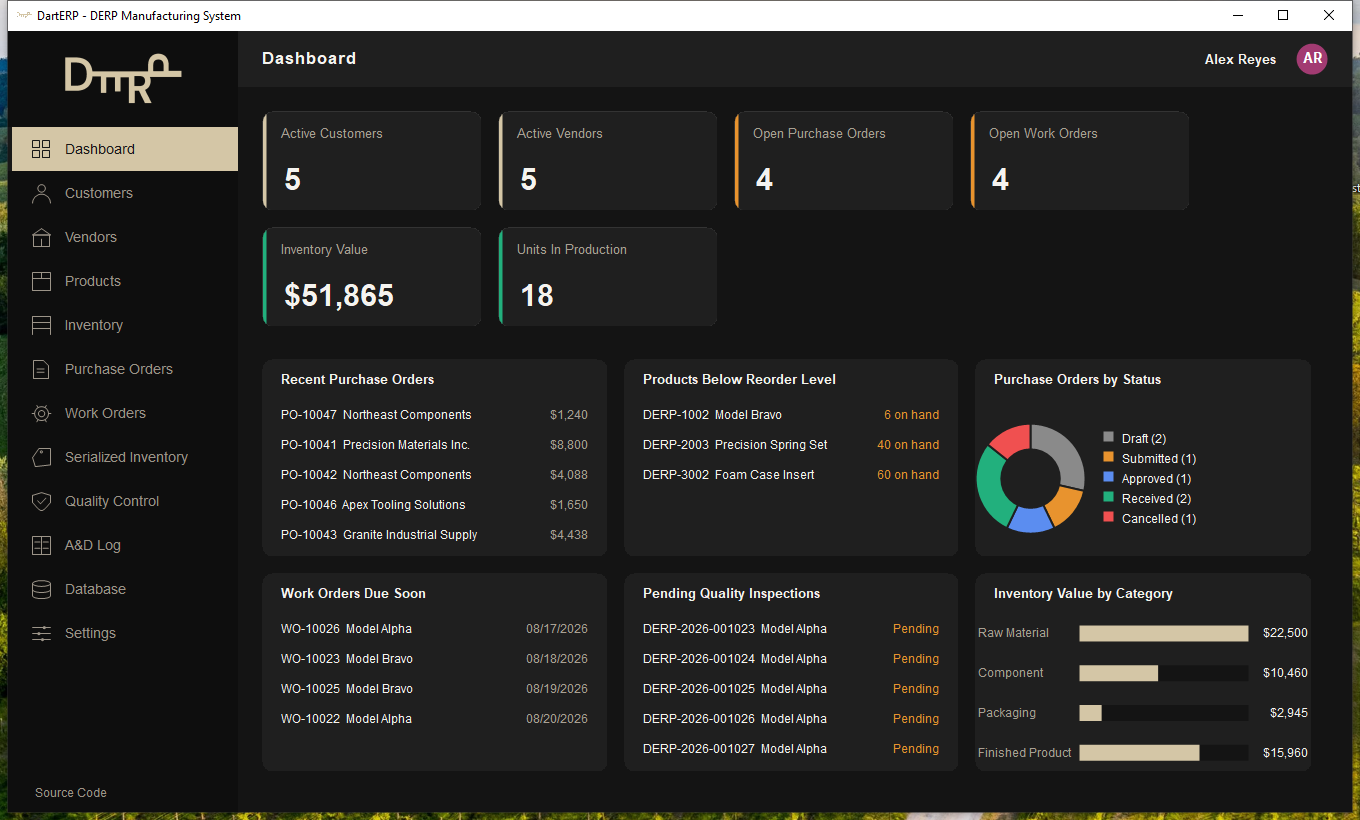
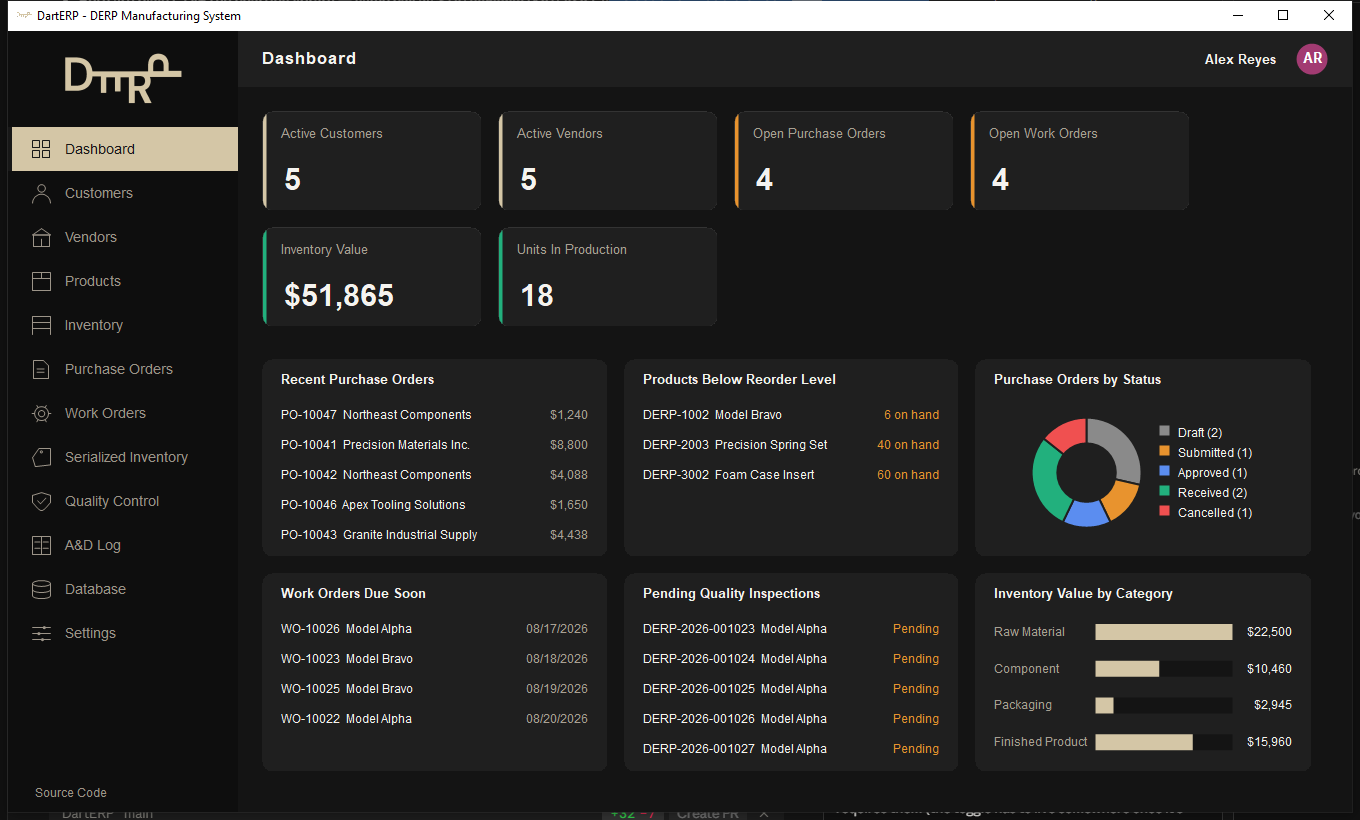
Fix chart padding: Panel.Padding doesn't apply to manual Paint drawing
Same class of bug as the LetterSpacedLabel padding fix — DashboardCard's
Body panel has Padding(16,0,16,12), but that only affects docked child
controls, not a Paint handler drawing straight onto the Graphics surface.
PieChart and BarChart were both positioning content from raw (0,0) against
Body.Width/Height, so the donut chart sat flush against the left edge and
the bar chart's category labels had no left margin at all.

Both now compute an inset bounds rectangle from Body.Padding and draw
everything relative to that. PieChart also centers the donut+legend as one
block (measuring the legend text width first) instead of just left-aligning
the donut, which was leaving a lopsided gap of empty space on the right.

diff --git a/src/DartERP.WinForms/Controls/BarChart.cs b/src/DartERP.WinForms/Controls/BarChart.cs
@@ -34,9 +34,20 @@ public class BarChart : DashboardCard
         var g = e.Graphics;
         g.SmoothingMode = SmoothingMode.AntiAlias;
 
+        // Body.Padding only affects docked child controls, not manual
+        // drawing in a Paint handler — same gotcha as LetterSpacedLabel.
+        // Everything below is positioned relative to this inset rectangle
+        // instead of raw Body.Width/Height, so labels get the same 16px
+        // margin every other dashboard card has instead of sitting flush
+        // against the edge.
+        var bounds = new Rectangle(
+            Body.Padding.Left, Body.Padding.Top,
+            Math.Max(0, Body.Width - Body.Padding.Horizontal),
+            Math.Max(0, Body.Height - Body.Padding.Vertical));
+
         if (_bars.Count == 0 || _bars.All(b => b.Value == 0))
         {
-            TextRenderer.DrawText(g, "No data yet.", Theme.FontSmall, Body.ClientRectangle, Theme.TextSecondary,
+            TextRenderer.DrawText(g, "No data yet.", Theme.FontSmall, bounds, Theme.TextSecondary,
                 TextFormatFlags.HorizontalCenter | TextFormatFlags.VerticalCenter);
             return;
         }
@@ -44,30 +55,31 @@ public class BarChart : DashboardCard
         const float labelWidth = 104f;
         const float valueWidth = 64f;
         var maxValue = _bars.Max(b => b.Value);
-        var rowHeight = (float)Body.Height / _bars.Count;
+        var rowHeight = (float)bounds.Height / _bars.Count;
         var barHeight = Math.Min(16f, rowHeight * 0.5f);
-        var barAreaWidth = Math.Max(0, Body.Width - labelWidth - valueWidth);
+        var barAreaWidth = Math.Max(0, bounds.Width - labelWidth - valueWidth);
+        var barAreaLeft = bounds.Left + labelWidth;
 
         for (var i = 0; i < _bars.Count; i++)
         {
             var bar = _bars[i];
-            var rowCenterY = rowHeight * i + rowHeight / 2f;
+            var rowCenterY = bounds.Top + rowHeight * i + rowHeight / 2f;
 
-            var labelRect = new Rectangle(0, (int)(rowCenterY - 8), (int)labelWidth, 16);
+            var labelRect = new Rectangle(bounds.Left, (int)(rowCenterY - 8), (int)labelWidth, 16);
             TextRenderer.DrawText(g, bar.Label, Theme.FontSmall, labelRect, Theme.TextSecondary,
                 TextFormatFlags.NoPrefix | TextFormatFlags.Left | TextFormatFlags.VerticalCenter | TextFormatFlags.EndEllipsis);
 
             using (var trackBrush = new SolidBrush(Theme.AppBackground))
-                g.FillRectangle(trackBrush, labelWidth, rowCenterY - barHeight / 2, barAreaWidth, barHeight);
+                g.FillRectangle(trackBrush, barAreaLeft, rowCenterY - barHeight / 2, barAreaWidth, barHeight);
 
             var barWidth = maxValue == 0 ? 0 : (float)(bar.Value / maxValue) * barAreaWidth;
             if (barWidth > 0)
             {
                 using var barBrush = new SolidBrush(Theme.AccentPrimary);
-                g.FillRectangle(barBrush, labelWidth, rowCenterY - barHeight / 2, barWidth, barHeight);
+                g.FillRectangle(barBrush, barAreaLeft, rowCenterY - barHeight / 2, barWidth, barHeight);
             }
 
-            var valueRect = new Rectangle((int)(labelWidth + barAreaWidth + 6), (int)(rowCenterY - 8), (int)valueWidth - 6, 16);
+            var valueRect = new Rectangle((int)(barAreaLeft + barAreaWidth + 6), (int)(rowCenterY - 8), (int)valueWidth - 6, 16);
             TextRenderer.DrawText(g, _valueFormatter(bar.Value), Theme.FontSmall, valueRect, Theme.TextPrimary,
                 TextFormatFlags.NoPrefix | TextFormatFlags.Right | TextFormatFlags.VerticalCenter);
         }

diff --git a/src/DartERP.WinForms/Controls/PieChart.cs b/src/DartERP.WinForms/Controls/PieChart.cs
@@ -32,16 +32,42 @@ public class PieChart : DashboardCard
         var g = e.Graphics;
         g.SmoothingMode = SmoothingMode.AntiAlias;
 
+        // Body.Padding only affects docked child controls, not manual
+        // drawing in a Paint handler — same gotcha as LetterSpacedLabel.
+        // Everything below is positioned relative to this inset rectangle
+        // instead of raw Body.Width/Height, so the chart actually gets the
+        // same 16px margin every other dashboard card has.
+        var bounds = new Rectangle(
+            Body.Padding.Left, Body.Padding.Top,
+            Math.Max(0, Body.Width - Body.Padding.Horizontal),
+            Math.Max(0, Body.Height - Body.Padding.Vertical));
+
         if (_slices.Count == 0)
         {
-            TextRenderer.DrawText(g, "No data yet.", Theme.FontSmall, Body.ClientRectangle, Theme.TextSecondary,
+            TextRenderer.DrawText(g, "No data yet.", Theme.FontSmall, bounds, Theme.TextSecondary,
                 TextFormatFlags.HorizontalCenter | TextFormatFlags.VerticalCenter);
             return;
         }
 
+        const float swatchSize = 10f;
+        const float legendGap = 18f;
+
+        // Measure the legend up front so the donut+legend pair can be
+        // centered as one block, instead of the donut sitting flush left
+        // with a lopsided gap of empty space wherever the (short) legend
+        // text happens to end.
+        var legendTextWidth = _slices
+            .Select(s => TextRenderer.MeasureText(g, $"{s.Label} ({s.Value:0})", Theme.FontSmall).Width)
+            .DefaultIfEmpty(0)
+            .Max();
+        var legendWidth = swatchSize + 6 + legendTextWidth;
+
+        var diameter = Math.Max(0, Math.Min(bounds.Height - 8, 110));
+        var contentWidth = diameter + legendGap + legendWidth;
+        var startX = bounds.Left + Math.Max(0, (bounds.Width - contentWidth) / 2f);
+
         var total = _slices.Sum(s => s.Value);
-        var diameter = Math.Max(0, Math.Min(Body.Height - 8, 110));
-        var donutRect = new RectangleF(0, (Body.Height - diameter) / 2f, diameter, diameter);
+        var donutRect = new RectangleF(startX, bounds.Top + (bounds.Height - diameter) / 2f, diameter, diameter);
 
         var startAngle = -90f;
         using (var separatorPen = new Pen(Theme.CardBackground, 2))
@@ -64,9 +90,8 @@ public class PieChart : DashboardCard
         using (var holeBrush = new SolidBrush(Theme.CardBackground))
             g.FillEllipse(holeBrush, holeRect);
 
-        var legendX = donutRect.Right + 18f;
-        var legendY = Math.Max(0f, (Body.Height - _slices.Count * 20) / 2f);
-        const float swatchSize = 10f;
+        var legendX = donutRect.Right + legendGap;
+        var legendY = Math.Max(bounds.Top, bounds.Top + (bounds.Height - _slices.Count * 20) / 2f);
 
         foreach (var slice in _slices)
         {
@@ -74,7 +99,7 @@ public class PieChart : DashboardCard
                 g.FillRectangle(swatchBrush, legendX, legendY + 3, swatchSize, swatchSize);
 
             var text = $"{slice.Label} ({slice.Value:0})";
-            var textRect = new Rectangle((int)(legendX + swatchSize + 6), (int)legendY, (int)(Body.Width - legendX - swatchSize - 6), 20);
+            var textRect = new Rectangle((int)(legendX + swatchSize + 6), (int)legendY, (int)legendTextWidth + 4, 20);
             TextRenderer.DrawText(g, text, Theme.FontSmall, textRect, Theme.TextPrimary,
                 TextFormatFlags.NoPrefix | TextFormatFlags.Left | TextFormatFlags.VerticalCenter | TextFormatFlags.EndEllipsis);
 
